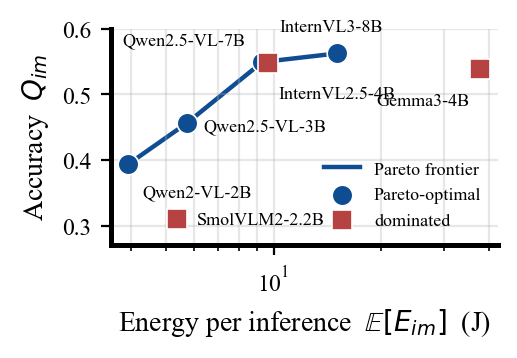
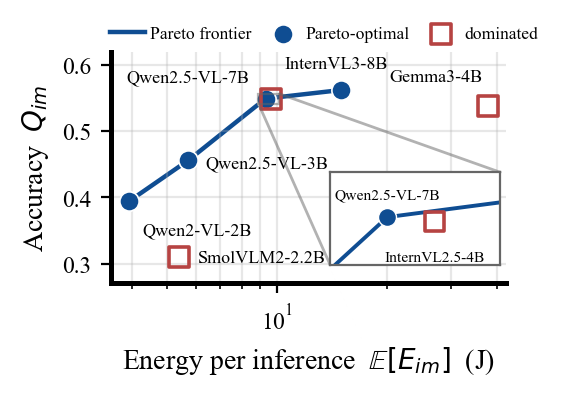
plot_tradeoff: pair-only zoom inset + hollow dominated markers (InternVL2.5-4B vs Qwen-7B disambiguation)

Changed region(s): [[0.0309, 0.0307, 0.9903, 0.8296], [0.2166, 0.8603, 0.9594, 0.9525]]

diff --git a/src/plot_tradeoff.py b/src/plot_tradeoff.py
@@ -49,7 +49,7 @@ SHORT = {
 LOFF = {
     "Qwen2-VL-2B-Q4": (5, -12), "Qwen2.5-VL-3B-Q4": (6, -3),
     "Qwen2.5-VL-7B-Q4": (-6, 6), "InternVL2.5-4B-Q4": (4, -13),
-    "InternVL3-8B-Q4": (-2, 8), "gemma-3-4b-Q4": (-4, -13), "SmolVLM2-2.2B-Q4": (7, -2),
+    "InternVL3-8B-Q4": (-2, 8), "gemma-3-4b-Q4": (-2, 9), "SmolVLM2-2.2B-Q4": (7, -2),
 }
 LHA = {"Qwen2.5-VL-7B-Q4": "right", "InternVL3-8B-Q4": "center", "gemma-3-4b-Q4": "right"}
 
@@ -57,26 +57,28 @@ def main():
     apply_house_style()
     _compact_style()
     df = pd.read_csv(CSV)
-    fig, ax = plt.subplots(figsize=(3.5, 2.7))
+    fig, ax = plt.subplots(figsize=(3.6, 2.9))
 
     # Pareto frontier line (sorted by energy)
     pf = df[df["pareto"]].sort_values("E_J")
     ax.plot(pf["E_J"], pf["Q"], "-", color=PALETTE["blue_main"], lw=1.6, zorder=1,
             label="Pareto frontier")
 
-    # three classes of points
+    # frontier = filled dots; dominated = HOLLOW squares (so a dominated point that
+    # nearly coincides with a frontier point, e.g. InternVL2.5-4B vs Qwen-7B, still
+    # reads as two distinct entities)
     groups = [
-        ("pareto",   lambda d: d["pareto"],                       PALETTE["blue_main"],   "o", "Pareto-optimal"),
-        ("dominated",lambda d: (~d["pareto"]) & (~d["failed"]),   PALETTE["red_strong"],  "s", "dominated"),
-        ("failed",   lambda d: d["failed"],                       PALETTE["neutral"],     "x", "failed (chance)"),
+        ("pareto",   lambda d: d["pareto"],                     dict(c=PALETTE["blue_main"], marker="o", s=48, edgecolors="white", linewidths=0.6), "Pareto-optimal"),
+        ("dominated",lambda d: (~d["pareto"]) & (~d["failed"]), dict(facecolors="none", marker="s", s=52, edgecolors=PALETTE["red_strong"], linewidths=1.3), "dominated"),
     ]
-    for _, mask, color, marker, lab in groups:
+    for _, mask, style, lab in groups:
         sub = df[mask(df)]
-        if sub.empty:            # e.g. no "failed (chance)" model in the 1300-image set
+        if sub.empty:
             continue
-        ax.scatter(sub["E_J"], sub["Q"], c=color, marker=marker, s=55,
-                   zorder=3, label=lab, edgecolors="white", linewidths=0.6)
+        ax.scatter(sub["E_J"], sub["Q"], zorder=3, label=lab, **style)
         for _, r in sub.iterrows():
+            if r["model"] == "InternVL2.5-4B-Q4":
+                continue                      # labelled inside the zoom inset instead
             ax.annotate(SHORT.get(r["model"], r["model"]),
                         (r["E_J"], r["Q"]), textcoords="offset points",
                         xytext=LOFF.get(r["model"], (6, 4)), fontsize=6.5,
@@ -86,8 +88,36 @@ def main():
     ax.set_ylabel("Accuracy  $Q_{im}$")
     ax.set_xscale("log")
     ax.grid(True, which="both", alpha=0.3)
-    ax.set_ylim(0.27, 0.60)
-    ax.legend(loc="lower right", fontsize=6.5, framealpha=0.9)
+    ax.set_ylim(0.27, 0.62)
+    ax.legend(loc="lower left", bbox_to_anchor=(-0.02, 1.01), ncol=3, frameon=False,
+              fontsize=6.3, handletextpad=0.3, columnspacing=0.8, borderaxespad=0)
+
+    # zoom inset: the 9-16 J cluster, where InternVL2.5-4B (0.548, 9.65 J) nearly
+    # coincides with Qwen-7B (0.549, 9.30 J) and would otherwise look on-frontier
+    axins = ax.inset_axes([0.555, 0.08, 0.43, 0.40])
+    axins.set_facecolor("white")
+    axins.patch.set_alpha(1.0)
+    axins.plot(pf["E_J"], pf["Q"], "-", color=PALETTE["blue_main"], lw=1.4, zorder=1)
+    p = df[df["pareto"]]
+    d = df[(~df["pareto"]) & (~df["failed"])]
+    axins.scatter(p["E_J"], p["Q"], c=PALETTE["blue_main"], marker="o", s=42,
+                  zorder=3, edgecolors="white", linewidths=0.5)
+    axins.scatter(d["E_J"], d["Q"], facecolors="none", marker="s", s=48,
+                  zorder=3, edgecolors=PALETTE["red_strong"], linewidths=1.3)
+    for name, xy, off, ha in [("Qwen2.5-VL-7B", (9.30, 0.549), (0, 7), "center"),
+                              ("InternVL2.5-4B", (9.65, 0.548), (0, -13), "center")]:
+        axins.annotate(name, xy, textcoords="offset points", xytext=off,
+                       fontsize=5.6, ha=ha)
+    # zoom ONLY the near-coincident pair: 7B (frontier) vs InternVL2.5-4B (dominated,
+    # visibly below the frontier segment); InternVL3-8B stays on the main axes
+    axins.set_xlim(8.9, 10.15); axins.set_ylim(0.5415, 0.5565)
+    axins.set_xscale("log")
+    axins.set_xticks([]); axins.set_yticks([])
+    axins.set_xticks([], minor=True)
+    for sp in axins.spines.values():
+        sp.set_visible(True)                 # house style hides top/right spines globally
+        sp.set_color("0.4"); sp.set_linewidth(0.8)
+    ax.indicate_inset_zoom(axins, edgecolor="0.4", lw=0.8)
     fig.tight_layout()
     savefig_pub(fig, OUT + ".pdf")
     fig.savefig(OUT + ".png", dpi=200, bbox_inches="tight")
